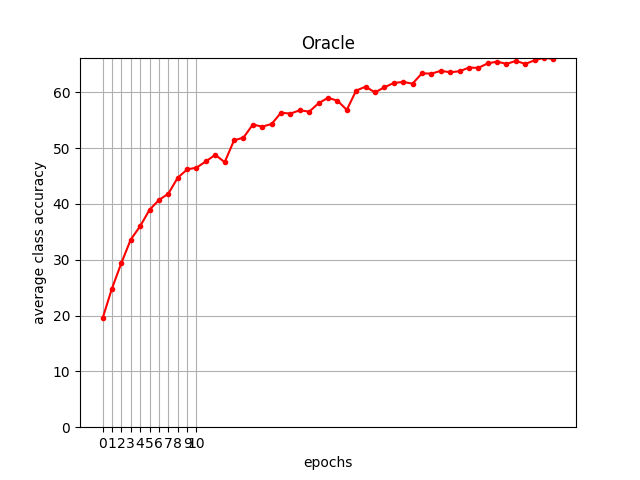
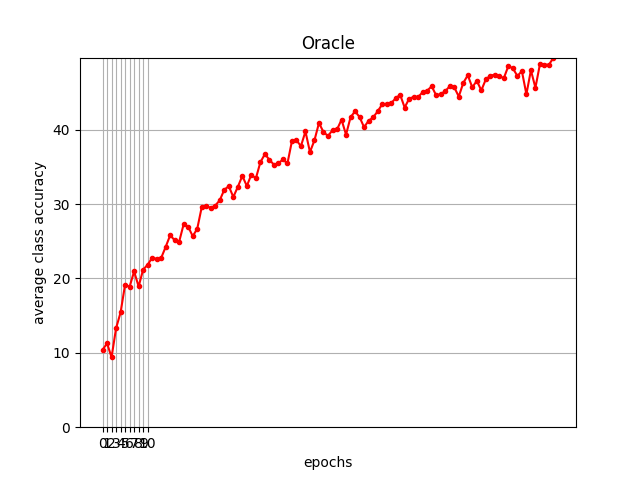
added scripts under exp/10vs10/Apr5

diff --git a/learners/default.py b/learners/default.py
@@ -116,7 +116,7 @@ class NormalNN(nn.Module):
         if self.epochs_of_interest[-1]!=self.config['schedule'][-1]:
             self.epochs_of_interest.append(self.config['schedule'][-1])
         
-        self.steps_of_interest = [i for i in range(0, self.steps, int(self.steps/100))] if self.steps!=-1 else []
+        self.steps_of_interest = [i for i in range(0, self.steps, int(self.steps/10))] if self.steps!=-1 else []
         if self.steps!=-1 and self.steps_of_interest[1]!=1:
             self.steps_of_interest.insert(1,1)
         if self.steps!=-1 and self.steps_of_interest[-1]!=self.steps:
